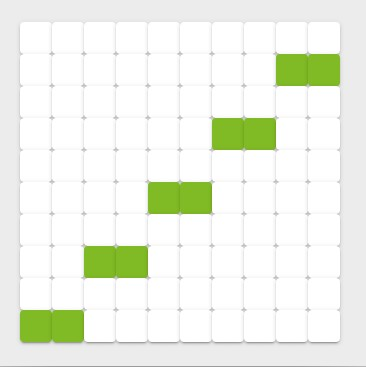
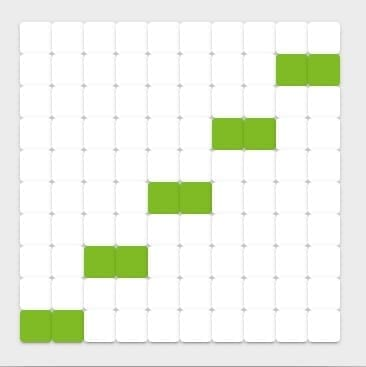
Version with compressed image files

diff --git a/src/components/HelpComponents/HelpTemplateDesktop.vue b/src/components/HelpComponents/HelpTemplateDesktop.vue
@@ -137,7 +137,7 @@ export default {
             id: 1,
             label: this.$t("help.variables.var"),
             title: this.$t("help.variables.varTitle"),
-            src: require("@/assets/helpTemplateBackground.png"),
+            src: require("@/assets/helpTemplateBackground.jpg"),
             textSection: this.$t("help.variables.varTextSec1"),
             subHeader: this.$t("help.variables.varSubHeader"),
             subText: this.$t("help.variables.varSubText"),
@@ -149,7 +149,7 @@ export default {
             id: 2,
             label: this.$t("help.function.function"),
             title: this.$t("help.function.functionTitle"),
-            src: require("@/assets/helpTemplateBackground.png"),
+            src: require("@/assets/helpTemplateBackground.jpg"),
             textSection: this.$t("help.function.functionTextSec1"),
             subHeader: this.$t("help.function.functionSubHeader"),
             subText: this.$t("help.function.functionSubText"),
@@ -161,7 +161,7 @@ export default {
             id: 3,
             label: this.$t("help.for.for"),
             title: this.$t("help.for.forTitle"),
-            src: require("@/assets/helpTemplateBackground.png"),
+            src: require("@/assets/helpTemplateBackground.jpg"),
             textSection: this.$t("help.for.forTextSec1"),
             subHeader: this.$t("help.for.forSubHeader"),
             subText: this.$t("help.for.forSubText"),
@@ -173,7 +173,7 @@ export default {
             id: 4,
             label: this.$t("help.while.while"),
             title: this.$t("help.while.whileTitle"),
-            src: require("@/assets/helpTemplateBackground.png"),
+            src: require("@/assets/helpTemplateBackground.jpg"),
             textSection: this.$t("help.while.whileTextSec1"),
             subHeader: this.$t("help.while.whileSubHeader"),
             subText: this.$t("help.while.whileSubText"),
@@ -185,7 +185,7 @@ export default {
             id: 5,
             label: this.$t("help.dowhile.do"),
             title: this.$t("help.dowhile.doTitle"),
-            src: require("@/assets/helpTemplateBackground.png"),
+            src: require("@/assets/helpTemplateBackground.jpg"),
             textSection: this.$t("help.dowhile.doTextSec1"),
             subHeader: this.$t("help.dowhile.doSubHeader"),
             subText: this.$t("help.dowhile.doSubText"),

diff --git a/src/components/HelpComponents/HelpTemplateMobile.vue b/src/components/HelpComponents/HelpTemplateMobile.vue
@@ -76,7 +76,7 @@ export default {
             id: 1,
             label: this.$t("help.variables.var"),
             title: this.$t("help.variables.varTitle"),
-            src: require("@/assets/helpTemplateBackground.png"),
+            src: require("@/assets/helpTemplateBackground.jpg"),
             textSection: this.$t("help.variables.varTextSec1"),
             subHeader: this.$t("help.variables.varSubHeader"),
             subText: this.$t("help.variables.varSubText"),
@@ -88,7 +88,7 @@ export default {
             id: 2,
             label: this.$t("help.function.function"),
             title: this.$t("help.function.functionTitle"),
-            src: require("@/assets/helpTemplateBackground.png"),
+            src: require("@/assets/helpTemplateBackground.jpg"),
             textSection: this.$t("help.function.functionTextSec1"),
             subHeader: this.$t("help.function.functionSubHeader"),
             subText: this.$t("help.function.functionSubText"),
@@ -100,7 +100,7 @@ export default {
             id: 3,
             label: this.$t("help.for.for"),
             title: this.$t("help.for.forTitle"),
-            src: require("@/assets/helpTemplateBackground.png"),
+            src: require("@/assets/helpTemplateBackground.jpg"),
             textSection: this.$t("help.for.forTextSec1"),
             subHeader: this.$t("help.for.forSubHeader"),
             subText: this.$t("help.for.forSubText"),
@@ -112,7 +112,7 @@ export default {
             id: 4,
             label: this.$t("help.while.while"),
             title: this.$t("help.while.whileTitle"),
-            src: require("@/assets/helpTemplateBackground.png"),
+            src: require("@/assets/helpTemplateBackground.jpg"),
             textSection: this.$t("help.while.whileTextSec1"),
             subHeader: this.$t("help.while.whileSubHeader"),
             subText: this.$t("help.while.whileSubText"),
@@ -124,7 +124,7 @@ export default {
             id: 5,
             label: this.$t("help.dowhile.do"),
             title: this.$t("help.dowhile.doTitle"),
-            src: require("@/assets/helpTemplateBackground.png"),
+            src: require("@/assets/helpTemplateBackground.jpg"),
             textSection: this.$t("help.dowhile.doTextSec1"),
             subHeader: this.$t("help.dowhile.doSubHeader"),
             subText: this.$t("help.dowhile.doSubText"),

diff --git a/data/locals/de.js b/data/locals/de.js
@@ -53,7 +53,7 @@ export default {
       successText: 'Du hast das Level gemeistert! Nun kannst du dich an an dem nächsten Level versuchen!',
       successConfirm: 'Nächstes Level!',
       successCancel: 'Zur Levelauswahl!',
-      successAlertTutorial: 'successpopup.png',
+      successAlertTutorial: 'successpopup.jpg',
     },
     failure: {
       failureTitle: 'Beim nächsten Mal...!',

diff --git a/data/locals/en.js b/data/locals/en.js
@@ -53,7 +53,7 @@ export default {
       successText: 'You have mastered the level! Now you can try your best at the next level!',
       successConfirm: 'Next level!',
       successCancel: 'To the level selection!',
-      successAlertTutorial: 'successpopup-eng.png',
+      successAlertTutorial: 'successpopup-eng.jpg',
     },
     failure: {
       failureTitle: 'Next time...!',

diff --git a/src/main.js b/src/main.js
@@ -9,9 +9,7 @@ import VueSweetalert2 from 'vue-sweetalert2';
 import 'sweetalert2/dist/sweetalert2.min.css';
 import de from '../data/locals/de';
 import en from '../data/locals/en';
-import FlagIcon from 'vue-flag-icon'
 
-Vue.use(FlagIcon);
 Vue.use(VueSweetalert2);
 Vue.use(VueI18n);
 Vue.directive("scrollanimation", scrollanimation);

diff --git a/src/components/OnePagerComponents/OnePagerWhy.vue b/src/components/OnePagerComponents/OnePagerWhy.vue
@@ -87,7 +87,7 @@ export default {
         {
           title: this.$t("whyDrawIT.whyHeader3"),
           text: this.$t("whyDrawIT.whyText3"),
-          link: require("@/assets/play-button-svgrepo-com (1).svg"),
+          link: require("@/assets/play-button.png"),
         },
       ]
     }

diff --git a/src/views/Onepager.vue b/src/views/Onepager.vue
@@ -2,7 +2,7 @@
   <v-parallax
     class="no-padding"
     :height="height"
-    :src="`${require(`@/assets/Hexagon4.svg`)}`"
+    :src="`${require(`@/assets/Hexagon3.svg`)}`"
   >
     <header id="start" class="pt-12">
       <OnePagerWhy />

diff --git a/src/App.vue b/src/App.vue
@@ -24,6 +24,6 @@ export default {
 </script>
 <style scoped>
 .bg-color {
-  background-image: url("../src/assets/Hexagon3.svg");
+  /*background-image: url("../src/assets/Hexagon3.svg"); */
 }
 </style>

diff --git a/vue.config.js b/vue.config.js
@@ -1,5 +1,8 @@
 module.exports = {
   transpileDependencies: [
     'vuetify'
-  ]
+  ],
+  publicPath: './',
+
+  assetsDir: './'
 }
